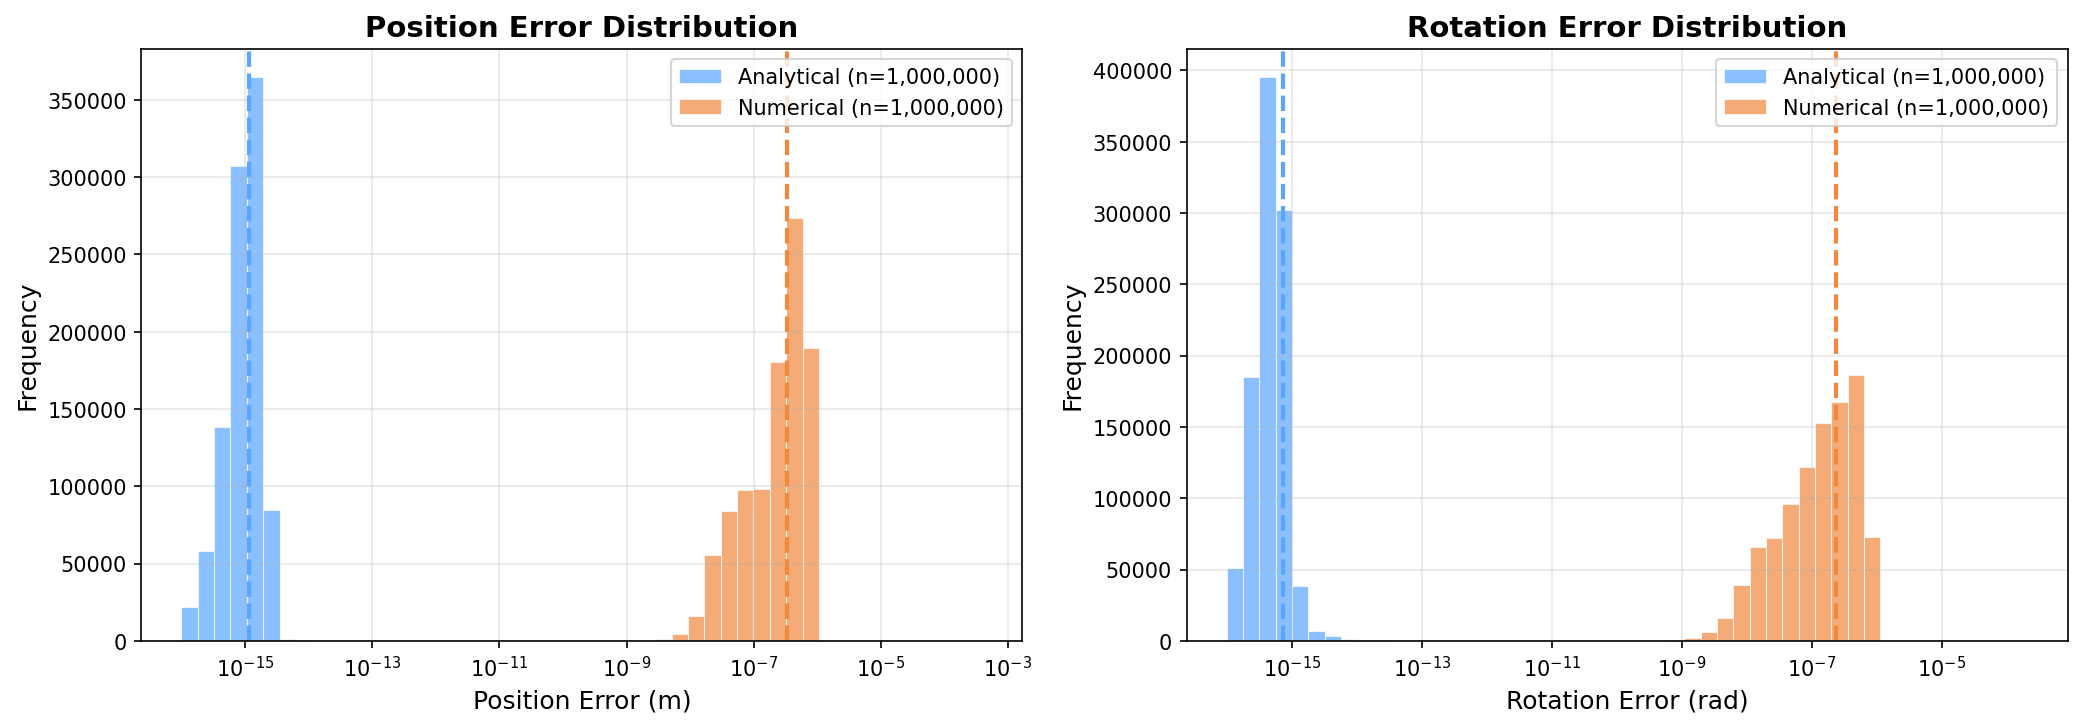
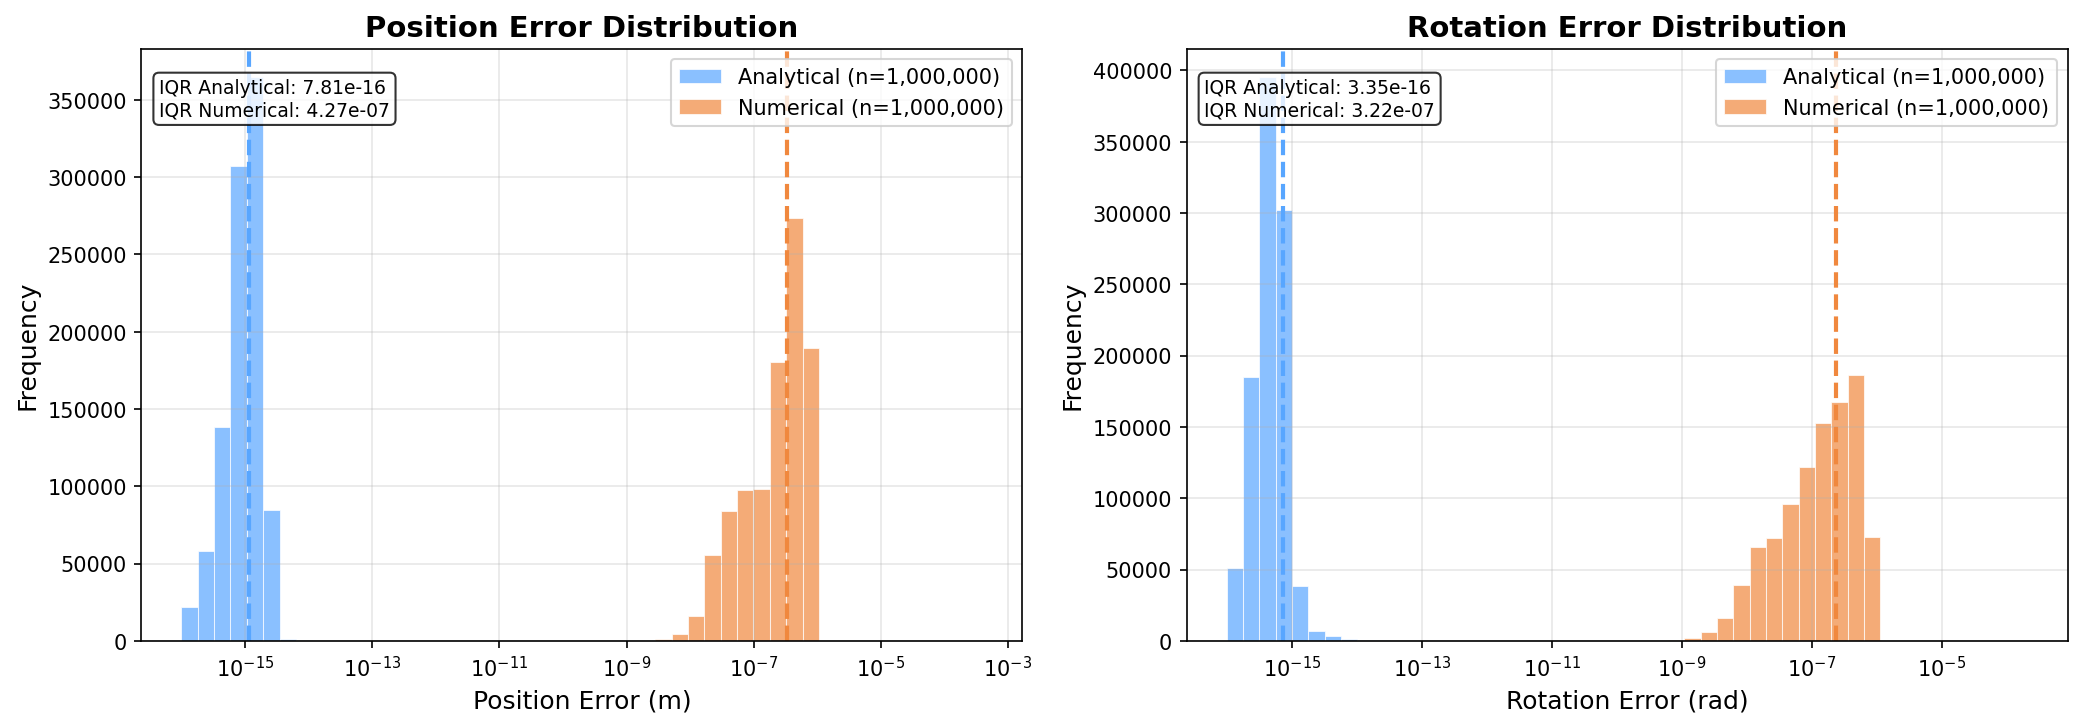
Add IQR annotations to all plots for all 5 measured parameters

Changed region(s): [[0.562, 0.0907, 0.6868, 0.1813], [0.0624, 0.0907, 0.1873, 0.1813]]

diff --git a/6-DOF_V.3/project_1/analysis/plot_comparison.py b/6-DOF_V.3/project_1/analysis/plot_comparison.py
@@ -66,6 +66,12 @@ def plot_error_histograms(data, save=True):
     ax1.axvline(np.mean(a_pos), color=ANALYTICAL_COLOR, linestyle='--', linewidth=2)
     ax1.axvline(np.mean(n_pos), color=NUMERICAL_COLOR, linestyle='--', linewidth=2)
 
+    a_pos_iqr = np.percentile(a_pos, 75) - np.percentile(a_pos, 25)
+    n_pos_iqr = np.percentile(n_pos, 75) - np.percentile(n_pos, 25)
+    ax1.text(0.02, 0.95, f'IQR Analytical: {a_pos_iqr:.2e}\nIQR Numerical: {n_pos_iqr:.2e}',
+             transform=ax1.transAxes, fontsize=9, verticalalignment='top',
+             bbox=dict(boxstyle='round,pad=0.3', facecolor='white', alpha=0.8))
+
     # Rotation Error
     ax2 = axes[1]
     a_rot = data["analytical"]["rot_error"]
@@ -88,6 +94,12 @@ def plot_error_histograms(data, save=True):
 
     ax2.axvline(np.mean(a_rot), color=ANALYTICAL_COLOR, linestyle='--', linewidth=2)
     ax2.axvline(np.mean(n_rot), color=NUMERICAL_COLOR, linestyle='--', linewidth=2)
+
+    a_rot_iqr = np.percentile(a_rot, 75) - np.percentile(a_rot, 25)
+    n_rot_iqr = np.percentile(n_rot, 75) - np.percentile(n_rot, 25)
+    ax2.text(0.02, 0.95, f'IQR Analytical: {a_rot_iqr:.2e}\nIQR Numerical: {n_rot_iqr:.2e}',
+             transform=ax2.transAxes, fontsize=9, verticalalignment='top',
+             bbox=dict(boxstyle='round,pad=0.3', facecolor='white', alpha=0.8))
 
     plt.tight_layout()
 
@@ -135,10 +147,14 @@ def plot_time_comparison(data, save=True):
     ax2.set_title('Computation Time Box Plot', fontsize=14, fontweight='bold')
     ax2.grid(True, alpha=0.3, axis='y')
 
-    ax2.annotate(f'Mean: {np.mean(a_time)*1000:.2f}ms', xy=(1, np.mean(a_time)),
-                 xytext=(1.3, np.mean(a_time)), fontsize=10, color=ANALYTICAL_COLOR)
-    ax2.annotate(f'Mean: {np.mean(n_time)*1000:.2f}ms', xy=(2, np.mean(n_time)),
-                 xytext=(2.1, np.mean(n_time)), fontsize=10, color=NUMERICAL_COLOR)
+    a_time_iqr = (np.percentile(a_time, 75) - np.percentile(a_time, 25)) * 1000
+    n_time_iqr = (np.percentile(n_time, 75) - np.percentile(n_time, 25)) * 1000
+    ax2.annotate(f'Mean: {np.mean(a_time)*1000:.2f}ms\nIQR: {a_time_iqr:.2f}ms',
+                 xy=(1, np.mean(a_time)), xytext=(1.3, np.mean(a_time)),
+                 fontsize=10, color=ANALYTICAL_COLOR)
+    ax2.annotate(f'Mean: {np.mean(n_time)*1000:.2f}ms\nIQR: {n_time_iqr:.2f}ms',
+                 xy=(2, np.mean(n_time)), xytext=(2.1, np.mean(n_time)),
+                 fontsize=10, color=NUMERICAL_COLOR)
 
     plt.tight_layout()
 
@@ -173,10 +189,14 @@ def plot_resource_usage(data, save=True):
     ax1.set_title('Memory Usage per Batch', fontsize=14, fontweight='bold')
     ax1.grid(True, alpha=0.3, axis='y')
 
-    ax1.annotate(f'Mean: {np.mean(a_mem):.2f} MB', xy=(1, np.mean(a_mem)),
-                 xytext=(1.3, np.mean(a_mem)), fontsize=10, color=ANALYTICAL_COLOR)
-    ax1.annotate(f'Mean: {np.mean(n_mem):.2f} MB', xy=(2, np.mean(n_mem)),
-                 xytext=(2.1, np.mean(n_mem)), fontsize=10, color=NUMERICAL_COLOR)
+    a_mem_iqr = np.percentile(a_mem, 75) - np.percentile(a_mem, 25)
+    n_mem_iqr = np.percentile(n_mem, 75) - np.percentile(n_mem, 25)
+    ax1.annotate(f'Mean: {np.mean(a_mem):.2f} MB\nIQR: {a_mem_iqr:.2f} MB',
+                 xy=(1, np.mean(a_mem)), xytext=(1.3, np.mean(a_mem)),
+                 fontsize=10, color=ANALYTICAL_COLOR)
+    ax1.annotate(f'Mean: {np.mean(n_mem):.2f} MB\nIQR: {n_mem_iqr:.2f} MB',
+                 xy=(2, np.mean(n_mem)), xytext=(2.1, np.mean(n_mem)),
+                 fontsize=10, color=NUMERICAL_COLOR)
 
     # CPU Usage
     ax2 = axes[1]
@@ -196,10 +216,14 @@ def plot_resource_usage(data, save=True):
     ax2.set_title('CPU Usage per Batch', fontsize=14, fontweight='bold')
     ax2.grid(True, alpha=0.3, axis='y')
 
-    ax2.annotate(f'Mean: {np.mean(a_cpu):.1f}%', xy=(1, np.mean(a_cpu)),
-                 xytext=(1.3, np.mean(a_cpu)), fontsize=10, color=ANALYTICAL_COLOR)
-    ax2.annotate(f'Mean: {np.mean(n_cpu):.1f}%', xy=(2, np.mean(n_cpu)),
-                 xytext=(2.1, np.mean(n_cpu)), fontsize=10, color=NUMERICAL_COLOR)
+    a_cpu_iqr = np.percentile(a_cpu, 75) - np.percentile(a_cpu, 25)
+    n_cpu_iqr = np.percentile(n_cpu, 75) - np.percentile(n_cpu, 25)
+    ax2.annotate(f'Mean: {np.mean(a_cpu):.1f}%\nIQR: {a_cpu_iqr:.1f}%',
+                 xy=(1, np.mean(a_cpu)), xytext=(1.3, np.mean(a_cpu)),
+                 fontsize=10, color=ANALYTICAL_COLOR)
+    ax2.annotate(f'Mean: {np.mean(n_cpu):.1f}%\nIQR: {n_cpu_iqr:.1f}%',
+                 xy=(2, np.mean(n_cpu)), xytext=(2.1, np.mean(n_cpu)),
+                 fontsize=10, color=NUMERICAL_COLOR)
 
     plt.tight_layout()
 
@@ -219,39 +243,45 @@ def plot_summary_dashboard(data, save=True):
     ax1 = axes[0, 0]
     a_pos = np.mean(data["analytical"]["pos_error"])
     n_pos = np.mean(data["numerical"]["pos_error"])
+    a_pos_iqr = np.percentile(data["analytical"]["pos_error"], 75) - np.percentile(data["analytical"]["pos_error"], 25)
+    n_pos_iqr = np.percentile(data["numerical"]["pos_error"], 75) - np.percentile(data["numerical"]["pos_error"], 25)
     bars = ax1.bar(['Analytical', 'Numerical'], [a_pos, n_pos],
                    color=[ANALYTICAL_COLOR, NUMERICAL_COLOR], alpha=0.8)
     ax1.set_ylabel('Position Error (m)')
     ax1.set_title('Mean Position Error', fontweight='bold')
     ax1.set_yscale('log')
-    for bar, val in zip(bars, [a_pos, n_pos]):
-        ax1.annotate(f'{val:.2e}', xy=(bar.get_x() + bar.get_width()/2, bar.get_height()),
-                     xytext=(0, 5), textcoords='offset points', ha='center', fontweight='bold', fontsize=9)
+    for bar, val, iqr in zip(bars, [a_pos, n_pos], [a_pos_iqr, n_pos_iqr]):
+        ax1.annotate(f'{val:.2e}\nIQR:{iqr:.2e}', xy=(bar.get_x() + bar.get_width()/2, bar.get_height()),
+                     xytext=(0, 5), textcoords='offset points', ha='center', fontweight='bold', fontsize=8)
 
     # 2. Mean Rotation Error
     ax2 = axes[0, 1]
     a_rot = np.mean(data["analytical"]["rot_error"])
     n_rot = np.mean(data["numerical"]["rot_error"])
+    a_rot_iqr = np.percentile(data["analytical"]["rot_error"], 75) - np.percentile(data["analytical"]["rot_error"], 25)
+    n_rot_iqr = np.percentile(data["numerical"]["rot_error"], 75) - np.percentile(data["numerical"]["rot_error"], 25)
     bars = ax2.bar(['Analytical', 'Numerical'], [a_rot, n_rot],
                    color=[ANALYTICAL_COLOR, NUMERICAL_COLOR], alpha=0.8)
     ax2.set_ylabel('Rotation Error (rad)')
     ax2.set_title('Mean Rotation Error', fontweight='bold')
     ax2.set_yscale('log')
-    for bar, val in zip(bars, [a_rot, n_rot]):
-        ax2.annotate(f'{val:.2e}', xy=(bar.get_x() + bar.get_width()/2, bar.get_height()),
-                     xytext=(0, 5), textcoords='offset points', ha='center', fontweight='bold', fontsize=9)
+    for bar, val, iqr in zip(bars, [a_rot, n_rot], [a_rot_iqr, n_rot_iqr]):
+        ax2.annotate(f'{val:.2e}\nIQR:{iqr:.2e}', xy=(bar.get_x() + bar.get_width()/2, bar.get_height()),
+                     xytext=(0, 5), textcoords='offset points', ha='center', fontweight='bold', fontsize=8)
 
     # 3. Mean Computation Time
     ax3 = axes[0, 2]
     a_time = np.mean(data["analytical"]["time"]) * 1000
     n_time = np.mean(data["numerical"]["time"]) * 1000
+    a_time_iqr = (np.percentile(data["analytical"]["time"], 75) - np.percentile(data["analytical"]["time"], 25)) * 1000
+    n_time_iqr = (np.percentile(data["numerical"]["time"], 75) - np.percentile(data["numerical"]["time"], 25)) * 1000
     bars = ax3.bar(['Analytical', 'Numerical'], [a_time, n_time],
                    color=[ANALYTICAL_COLOR, NUMERICAL_COLOR], alpha=0.8)
     ax3.set_ylabel('Mean Time (ms)')
     ax3.set_title('Computation Time', fontweight='bold')
-    for bar, val in zip(bars, [a_time, n_time]):
-        ax3.annotate(f'{val:.2f}ms', xy=(bar.get_x() + bar.get_width()/2, bar.get_height()),
-                     xytext=(0, 5), textcoords='offset points', ha='center', fontweight='bold', fontsize=9)
+    for bar, val, iqr in zip(bars, [a_time, n_time], [a_time_iqr, n_time_iqr]):
+        ax3.annotate(f'{val:.2f}ms\nIQR:{iqr:.2f}ms', xy=(bar.get_x() + bar.get_width()/2, bar.get_height()),
+                     xytext=(0, 5), textcoords='offset points', ha='center', fontweight='bold', fontsize=8)
 
     # 4. Position Error Distribution
     ax4 = axes[1, 0]
@@ -276,13 +306,15 @@ def plot_summary_dashboard(data, save=True):
     n_mem = n_mem[~np.isnan(n_mem)]
     a_mean_mem = np.mean(a_mem)
     n_mean_mem = np.mean(n_mem)
+    a_mem_iqr = np.percentile(a_mem, 75) - np.percentile(a_mem, 25)
+    n_mem_iqr = np.percentile(n_mem, 75) - np.percentile(n_mem, 25)
     bars = ax5.bar(['Analytical', 'Numerical'], [a_mean_mem, n_mean_mem],
                    color=[ANALYTICAL_COLOR, NUMERICAL_COLOR], alpha=0.8)
     ax5.set_ylabel('Memory Delta (MB)')
     ax5.set_title('Mean Memory Usage', fontweight='bold')
-    for bar, val in zip(bars, [a_mean_mem, n_mean_mem]):
-        ax5.annotate(f'{val:.2f} MB', xy=(bar.get_x() + bar.get_width()/2, bar.get_height()),
-                     xytext=(0, 5), textcoords='offset points', ha='center', fontweight='bold', fontsize=9)
+    for bar, val, iqr in zip(bars, [a_mean_mem, n_mean_mem], [a_mem_iqr, n_mem_iqr]):
+        ax5.annotate(f'{val:.2f} MB\nIQR:{iqr:.2f}', xy=(bar.get_x() + bar.get_width()/2, bar.get_height()),
+                     xytext=(0, 5), textcoords='offset points', ha='center', fontweight='bold', fontsize=8)
 
     # 6. CPU Usage
     ax6 = axes[1, 2]
@@ -292,13 +324,15 @@ def plot_summary_dashboard(data, save=True):
     n_cpu = n_cpu[~np.isnan(n_cpu)]
     a_mean_cpu = np.mean(a_cpu)
     n_mean_cpu = np.mean(n_cpu)
+    a_cpu_iqr = np.percentile(a_cpu, 75) - np.percentile(a_cpu, 25)
+    n_cpu_iqr = np.percentile(n_cpu, 75) - np.percentile(n_cpu, 25)
     bars = ax6.bar(['Analytical', 'Numerical'], [a_mean_cpu, n_mean_cpu],
                    color=[ANALYTICAL_COLOR, NUMERICAL_COLOR], alpha=0.8)
     ax6.set_ylabel('CPU Utilization (%)')
     ax6.set_title('Mean CPU Usage', fontweight='bold')
-    for bar, val in zip(bars, [a_mean_cpu, n_mean_cpu]):
-        ax6.annotate(f'{val:.1f}%', xy=(bar.get_x() + bar.get_width()/2, bar.get_height()),
-                     xytext=(0, 5), textcoords='offset points', ha='center', fontweight='bold', fontsize=9)
+    for bar, val, iqr in zip(bars, [a_mean_cpu, n_mean_cpu], [a_cpu_iqr, n_cpu_iqr]):
+        ax6.annotate(f'{val:.1f}%\nIQR:{iqr:.1f}%', xy=(bar.get_x() + bar.get_width()/2, bar.get_height()),
+                     xytext=(0, 5), textcoords='offset points', ha='center', fontweight='bold', fontsize=8)
 
     fig.suptitle('IK Solver Comparison Dashboard', fontsize=16, fontweight='bold', y=1.02)
 
